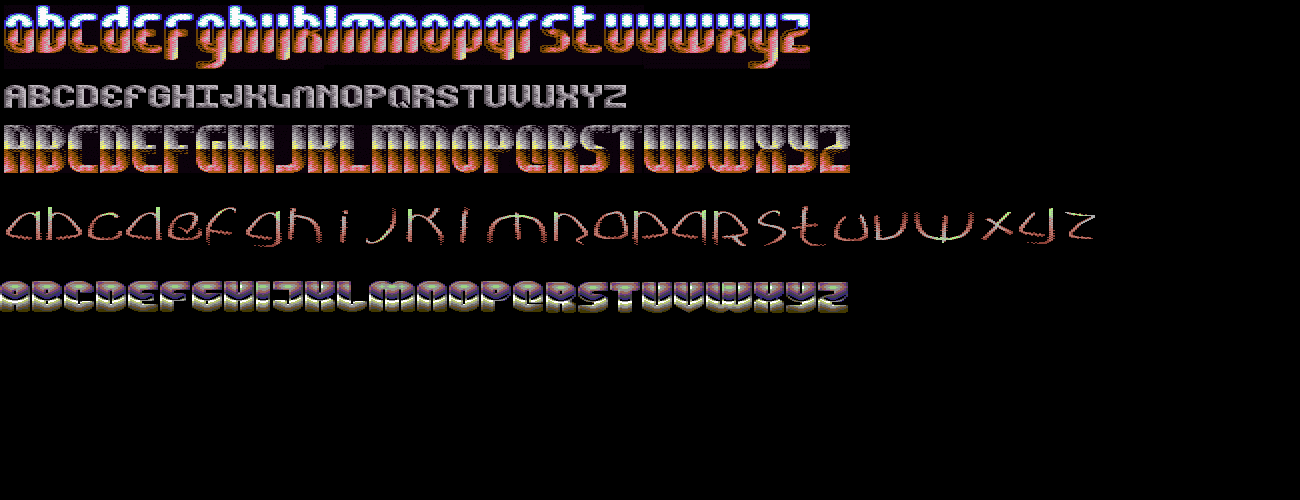
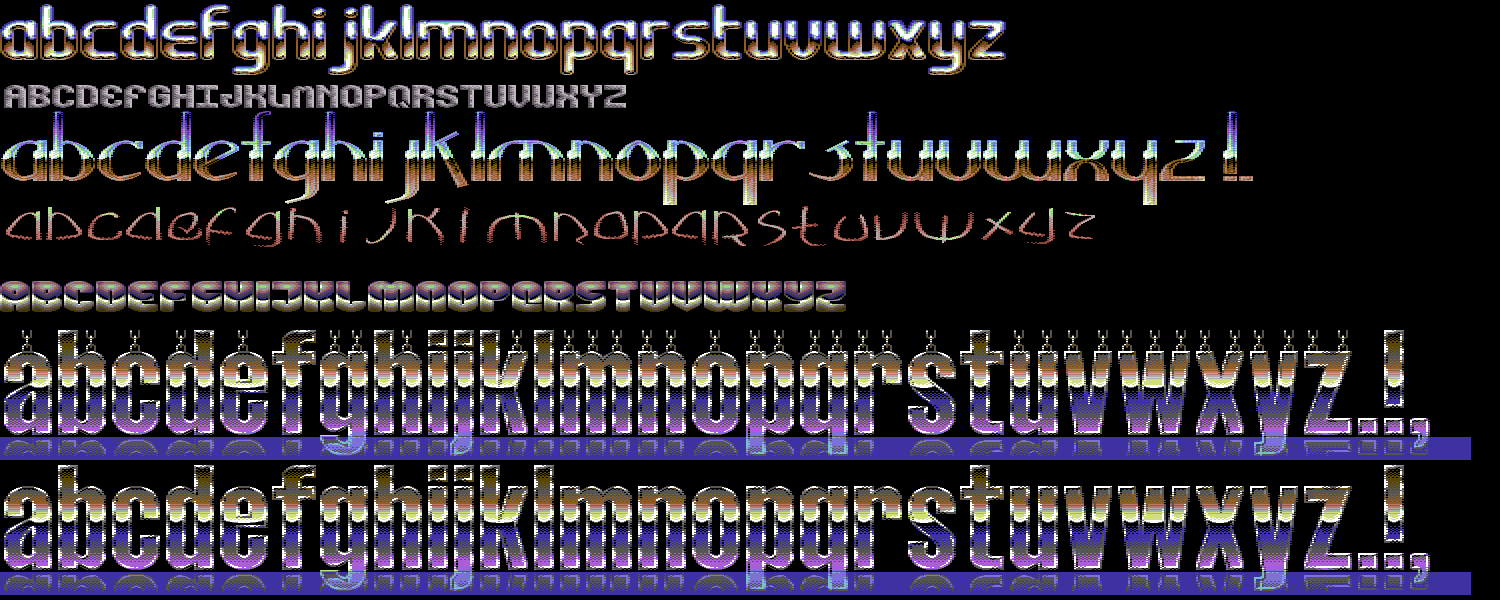
more fonts, download fixes

diff --git a/logogen.js b/logogen.js
@@ -18,35 +18,56 @@
             f:[203,33],g:[246,36],h:[286,36],i:[335,13],j:[365,32],k:[405,39],
             l:[455,15],m:[486,61],n:[550,39],o:[590,39],p:[630,39],q:[670,37],
             r:[708,41],s:[756,30],t:[790,37],u:[833,36],v:[871,37],w:[910,65],
-            x:[983,30],y:[1015,40],z:[1063,34],$:[1100,20],offset:200
+            x:[983,30],y:[1015,40],z:[1063,34],'$':[1100,20],offset:206
           },
           qpd:{
-            height:33,a:[3,24],b:[27,24],c:[51,24],d:[75,24],e:[99,24],
+            height:31,a:[3,24],b:[27,24],c:[51,24],d:[75,24],e:[99,24],
             f:[123,24],g:[147,24],h:[171,24],i:[195,24],j:[219,24],k:[243,24],
             l:[267,24],m:[291,24],n:[315,24],o:[339,24],p:[363,24],q:[387,24],
             r:[411,24],s:[435,24],t:[459,24],u:[483,24],v:[507,24],w:[531,24],
-            x:[555,24],y:[580,24],z:[605,24],$:[640,24],offset:80
-          }, 
-          rrr1:{
-            height:74,a:[3,32],b:[35,32],c:[67,32],d:[99,32],e:[131,32],
-            f:[163,32],g:[195,32],h:[227,32],i:[259,16],j:[275,16],k:[291,32],
-            l:[323,16],m:[339,48],n:[387,32],o:[419,32],p:[451,32],q:[486,32],
-            r:[520,18],s:[539,32],t:[571,32],u:[603,32],v:[635,32],w:[667,48],
-            x:[715,32],y:[747,32],z:[779,32],$:[900,32],offset:0
+            x:[555,24],y:[580,24],z:[605,24],'$':[640,24],offset:80
           }, 
           deekay:{
             height:32,a:[0,32],b:[32,32],c:[64,32],d:[96,32],e:[128,32],
             f:[160,32],g:[192,32],h:[224,32],i:[256,16],j:[272,32],k:[304,32],
             l:[336,32],m:[368,48],n:[416,32],o:[448,32],p:[480,32],q:[512,32],
             r:[544,32],s:[576,32],t:[608,32],u:[640,32],v:[672,32],w:[704,48],
-            x:[752,32],y:[784,32],z:[816,32],$:[870,32],offset:280
+            x:[752,32],y:[784,32],z:[816,32],'$':[870,32],offset:280
           },
-          rrr2:{
-            height:58,a:[3,32],b:[35,32],c:[67,32],d:[99,32],e:[131,32],
-            f:[163,32],g:[195,32],h:[227,32],i:[259,16],j:[275,32],k:[307,32],
-            l:[339,32],m:[372,48],n:[419,32],o:[451,32],p:[482,32],q:[515,32],
-            r:[547,32],s:[579,32],t:[611,32],u:[643,32],v:[676,32],w:[707,48],
-            x:[755,32],y:[788,32],z:[820,32],$:[870,32],offset:120
+          deekaydontmeetcrestfli: {
+            height:32,a:[0,32],b:[32,32],c:[64,32],d:[96,32],e:[128,32],
+            f:[160,32],g:[192,32],h:[224,32],i:[256,16],j:[272,32],k:[304,32],
+            l:[336,32],m:[368,48],n:[416,32],o:[448,32],p:[480,32],q:[512,32],
+            r:[544,32],s:[576,32],t:[608,32],u:[640,32],v:[672,32],w:[704,48],
+            x:[752,32],y:[784,32],z:[816,32],'$':[870,32],offset:280
+          },
+          deekaycomalandspriteschains:{
+            height:130,a:[0,54],b:[54,54],c:[108,54],d:[162,54],e:[216,54],
+            f:[270,48],g:[316,54],h:[370,54],i:[424,26],j:[450,26],k:[476,54],
+            l:[530,26],m:[556,78],n:[634,54],o:[688,54],p:[742,54],q:[796,54],
+            r:[850,54],s:[904,54],t:[958,48],u:[1006,54],v:[1060,54],w:[1114,78],
+            x:[1192,54],y:[1246,54],z:[1300,54],'!':[1380,26],comma:[1406,26],fullstop:[1354,26],'$':[1432,26],offset:330
+          },
+          orcdutchbreezeflielite:{
+            height:75,a:[0,40],b:[40,40],c:[80,40],d:[120,40],e:[160,40],
+            f:[200,32],g:[232,40],h:[272,40],i:[312,16],j:[328,32],k:[360,40],
+            l:[400,16],m:[416,64],n:[480,40],o:[520,40],p:[560,40],q:[600,40],
+            r:[640,32],s:[672,40],t:[712,32],u:[744,40],v:[784,40],w:[824,64],
+            x:[888,40],y:[928,40],z:[968,40],'$':[1008,16],offset:2
+          }, 
+          compyxvisualdelight2multicolor1995:{
+            height:98,a:[0,48],b:[48,48],c:[96,48],d:[144,48],e:[192,48],
+            f:[240,32],g:[272,48],h:[320,48],i:[368,16],j:[385,35],k:[420,49],
+            l:[470,16],m:[486,80],n:[566,48],o:[614,48],p:[662,48],q:[710,48],
+            r:[758,48],s:[808,46],t:[854,32],u:[886,48],v:[934,48],w:[982,80],
+            x:[1062,48],y:[1110,48],z:[1158,48],'$':[1206,16],'!':[1222,16],'.':[1238,16],offset:109
+          }, 
+          deekaycomalandspritesnochains: {
+            height:133,a:[0,54],b:[54,54],c:[108,54],d:[162,54],e:[216,54],
+            f:[270,48],g:[316,54],h:[370,54],i:[424,26],j:[450,26],k:[476,54],
+            l:[530,26],m:[556,78],n:[634,54],o:[688,54],p:[742,54],q:[796,54],
+            r:[850,54],s:[904,54],t:[958,48],u:[1006,54],v:[1060,54],w:[1114,78],
+            x:[1192,54],y:[1246,54],z:[1300,54],'!':[1380,26],',':[1406,26],'.':[1354,26],'$':[1432,26],offset:462
           }
         },
 
@@ -166,10 +187,7 @@
   Create a new image from the Canvas data and add it to the document for 
   saving.
 */
-      var img = document.createElement('img');
-      save.innerHTML = '';
-      save.appendChild(img);
-      img.src = ctx.canvas.toDataURL('image/png');
+      save.innerHTML = '<a href="'+ctx.canvas.toDataURL('image/png')+'" download="'+input.value+'.png"><img src="'+ctx.canvas.toDataURL('image/png')+'"></a><br><small>Click to download</small>';
     };
 
   }

diff --git a/index.html b/index.html
@@ -12,11 +12,13 @@
   <div id="container">
   <ul id="nav">
     <li><span>1</span> Choose your font:</li>
-    <li><img src="qpd3c.png" alt="Cupid/Padua/Hitmen" id="qpd"></li>
-    <li><img class="current" src="rrr1.png" alt="RRR/Oxyron #1" id="rrr1"></li>
-    <li><img src="rrr2.png" alt="RRR/Oxyron #2" id="rrr2"></li>
+    <li><img  class="current" src="qpd3c.png" alt="Cupid/Padua/Hitmen" id="qpd"></li>
     <li><img src="ollie.png" alt="Ollie/Pride" id="ollie"></li>
-    <li><img src="deekay.png" alt="Deekay/Crest" id="deekay"></li>
+    <li><img src="deekay.png" alt="Deekay/Crest - Don't meet crest" id="deekaydontmeetcrestfli"></li>
+    <li><img src="deekay2.png" alt="Deekay/Crest" id="deekaycomalandspriteschains"></li>
+    <li><img src="deekay3.png" alt="Deekay/Crest" id="deekaycomalandspritesnochains"></li>
+    <li><img src="orc.png" alt="Orc/Black Mail" id="orcdutchbreezeflielite"></li>
+    <li><img src="compyx.png" alt="Compyx/Focus" id="compyxvisualdelight2multicolor1995"></li>
   </ul>
   <form>
     <p><span>2</span> Type your text (lower case a-z and space only)</p>  
@@ -27,7 +29,7 @@
   <div id="out"></div>
 </div>
 </section>
-<footer><p>Written by <a href="http://wait-till-i.com/">Chris Heilmann</a> - <a href="http://twitter.com/codepo8">@codepo8</a></p></footer>
+<footer><p>Written by <a href="http://wait-till-i.com/">Chris Heilmann</a> - <a href="http://twitter.com/codepo8">@codepo8</a> - RRR fonts removed as he asked me to :(</p></footer>
 <img src="allfonts.png" alt="" id="fonts">
 <script src="logogen.js"></script>
 </body>

diff --git a/logogen.css b/logogen.css
@@ -10,6 +10,9 @@
   padding:0;
   font-family:calibri,sans-serif;
 } 
+body {
+  padding: 2em;
+}
 canvas,#fonts{
   left:-9999px;
   display: block;
@@ -18,8 +21,10 @@ canvas,#fonts{
 }
 #nav{
   float:left;
-  height:370px;
+  width: 20%;
+  height:100%;
   background:#000;
+  min-width: 290px;
 }
 #nav li{
  list-style:none;
@@ -78,8 +83,6 @@ span{
 }
 #save{
   overflow:auto;
-  height:150px;
-  width:450px;
 }
 #save img{
   display:block;
@@ -91,17 +94,14 @@ span{
 form{
   padding:5px 0 5px 20px;
   float:left;
-  width:300px;
+  width: 70%;
 }
 #container{
-  width:700px;
-  height:370px;
   background:#999;
   margin:10px auto;
   overflow:hidden;
 }
 section,header,footer{
-  width:700px;
   display:block;
   margin:10px auto;
 }
